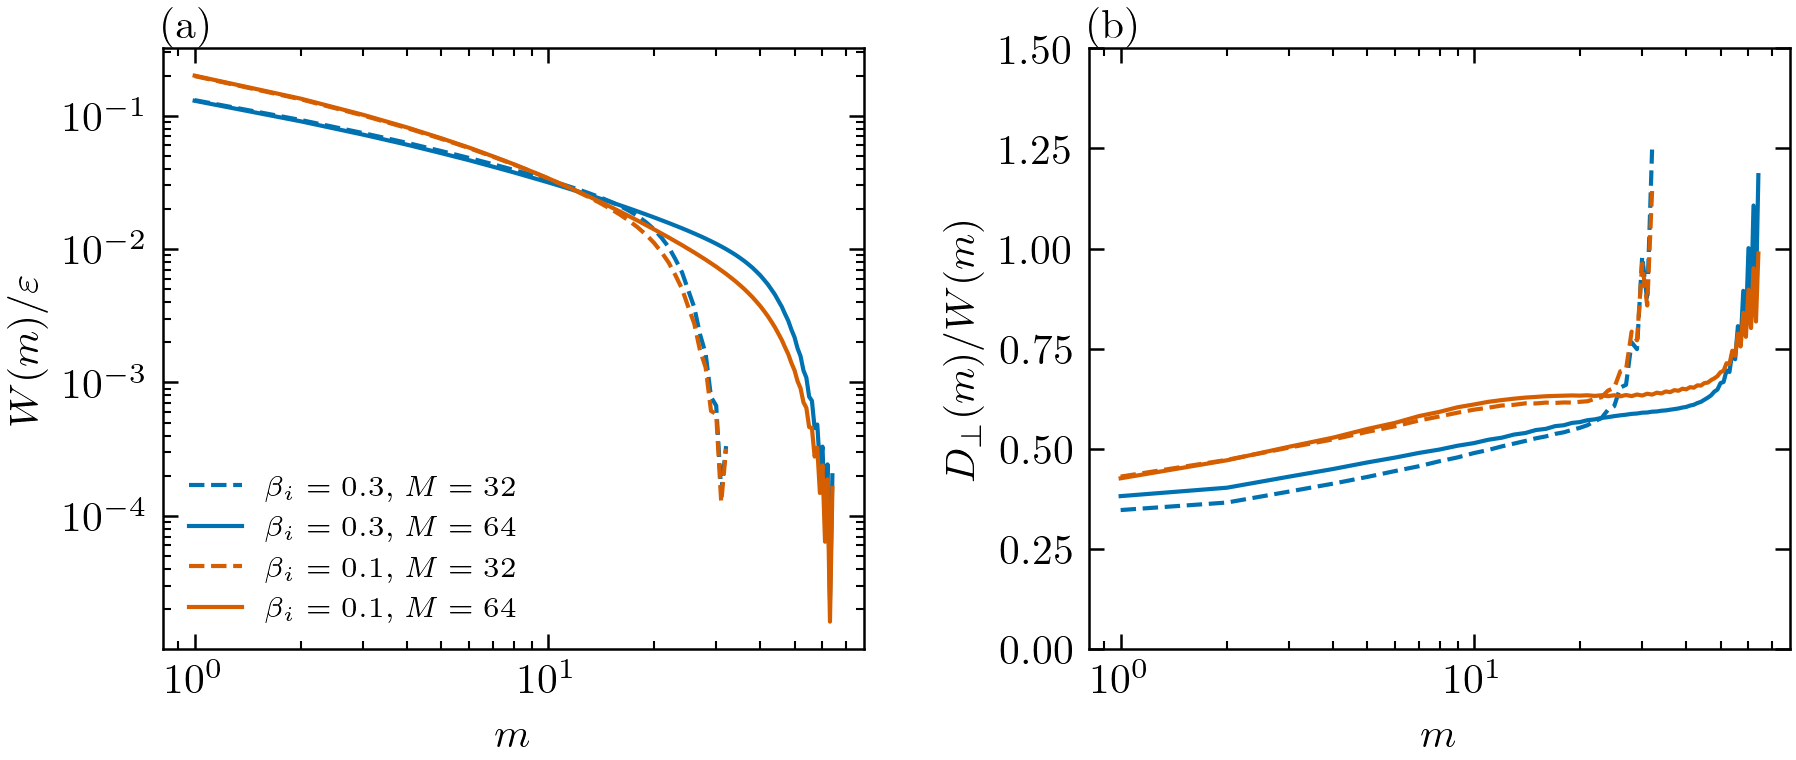
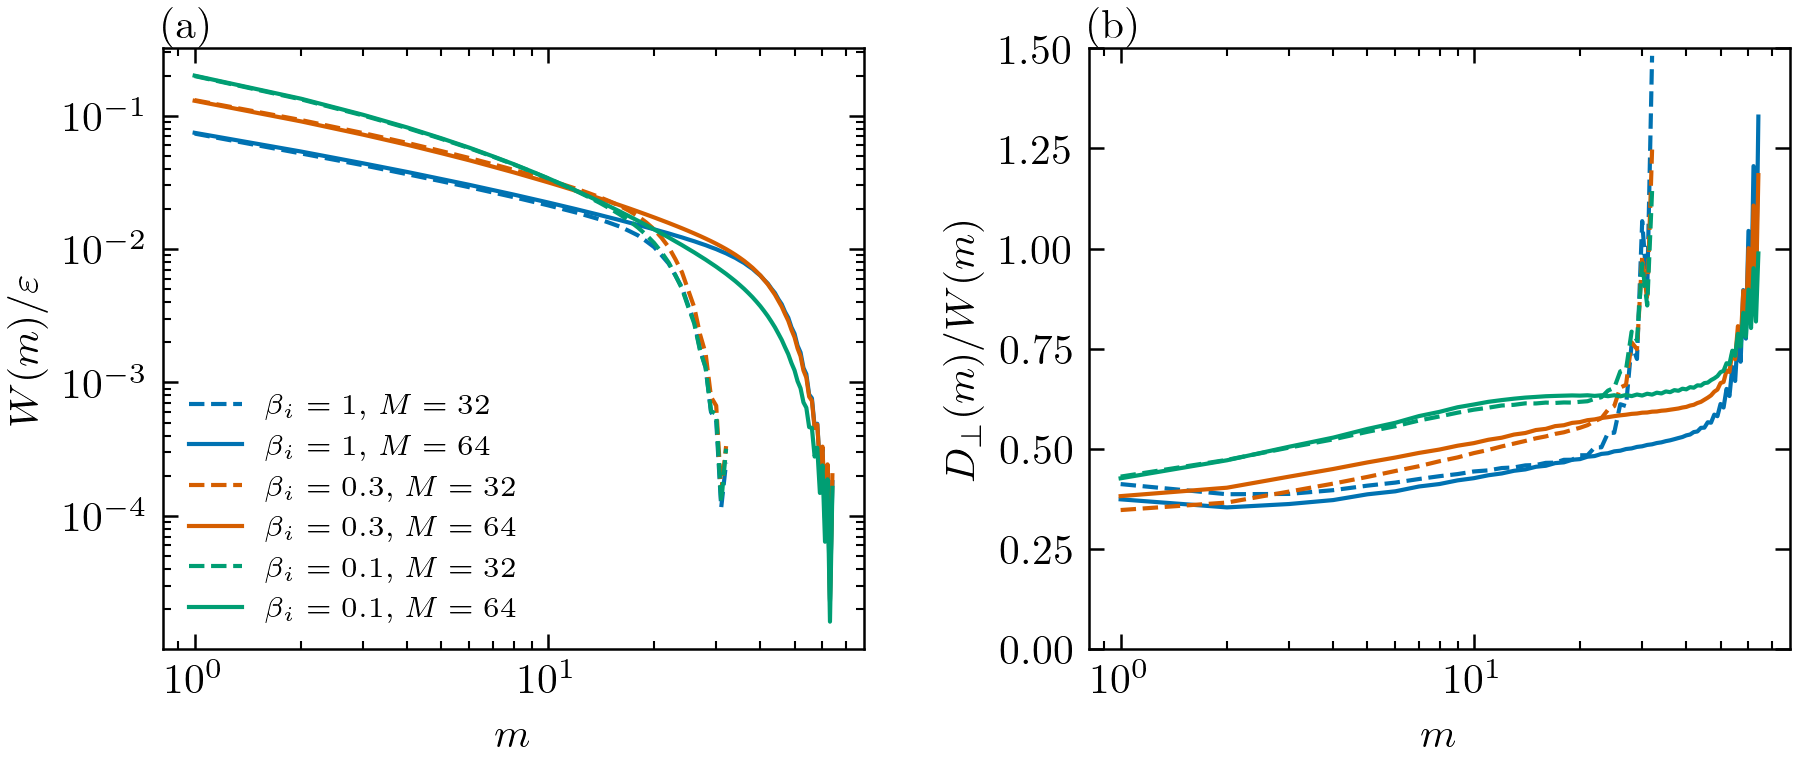
Paper: Hermite-resolution comparison at all three beta_i
At beta_i = 1, W(m) at M = 64 is within 1-5% of M = 32 for m <= 10 and up to
7% higher at m = 12-16, where the M = 32 hypercollisions compete with the
perpendicular sink. Collisional share 59 -> 50% at beta_i = 1 (model 71 -> 63%).

Claude-Session: https://claude.ai/code/session_011UVysGTDctjEhUWxPixPC6

diff --git a/paper/phase-velocity-slices/sections/07-simulations.tex b/paper/phase-velocity-slices/sections/07-simulations.tex
@@ -96,11 +96,14 @@ To bring the break into the hierarchy, we ran the same set-up at $\beta_i=0.3$ a
     1 & 32 & 3--53 & 0.117, 0.141 & 0.155 & 1.1\% & 0.437 & 15.9 \\
     0.3 & 32 & 15.5--53 & 0.076, 0.147 & 0.174 & 1.0\% & 0.478 & 13.5 \\
     0.1 & 32 & 16--66 & 0.120, 0.180 & 0.229 & 0.65\% & 0.590 & 11.2 \\
-    1 & 64 & 16--66 & \placeholder{} & \placeholder{} & \placeholder{} & \placeholder{} & \placeholder{} \\
+    1 & 64 & 16--66 & 0.146, 0.143 & 0.312$^a$ & 1.2\% & 0.421 & \placeholder{} \\
     0.3 & 64 & 16--66 & 0.158, 0.136 & 0.185 & 0.87\% & 0.508 & 13.2 \\
     0.1 & 64 & 16--66 & 0.114, 0.186 & 0.212 & 0.44\% & 0.604 & 11.0 \\
     \bottomrule
   \end{tabular}
+
+  \smallskip
+  {\footnotesize $^a$ $D_\perp(m)$ at $m=0$ and 1 (31\% and 20\%); at most 19\% for every other average and $m$.}
 \end{table}
 
 Table~\ref{tab:runs} lists the runs. All conserve energy to within $2.1\times10^{-3}$ of the injection and balance injection and dissipation to within 2\%. The free energy fluctuates more slowly as $\beta_i$ decreases: its integrated correlation time is about 0.8, 1.4 and $3.6\,\tau_A$ at $\beta_i=1$, 0.3 and 0.1 (at $M=32$), so a window of $50\,\tau_A$ holds fewer independent samples, and at $\beta_i=0.1$ the four block means differ by up to 23\%, about the scatter expected from that correlation time. We quote the block spread as the uncertainty of the averages, about $\pm12\%$ on $W(m)$ at $\beta_i=0.1$. In the run at $\beta_i=0.3$ and $M=32$ the free energy was still settling during the first $12\,\tau_A$ of the nominal window, which we therefore start at $t=15.5$. The spectra show no sign of numerical instability at small scales in any run.
@@ -123,10 +126,10 @@ Table~\ref{tab:runs} lists the runs. All conserve energy to within $2.1\times10^
 \begin{figure}[t]
   \centering
   \includegraphics[width=\textwidth]{h1_resolution_m}
-  \caption{Resolution in Hermite index at $\beta_i=0.3$ (blue) and 0.1 (red): $M=32$ (dashed) and $M=64$ (solid), with the same box, forcing, seeds and hyper-resistivity and the hypercollision coefficient scaled as described in section~\ref{sim:beta}. (a) $W(m)/\eps$. (b) $D_\perp(m)/W(m)$. \placeholder{add $\beta_i=1$}}
+  \caption{Resolution in Hermite index at $\beta_i=1$ (blue), 0.3 (orange) and 0.1 (green): $M=32$ (dashed) and $M=64$ (solid), with the same box, forcing, seeds and hyper-resistivity and the hypercollision coefficient scaled as described in section~\ref{sim:beta}. (a) $W(m)/\eps$. (b) $D_\perp(m)/W(m)$.}
   \label{fig:resolution}
 \end{figure}
 
-Doubling $M$ leaves the spectra in the range both runs resolve unchanged (figure~\ref{fig:resolution}). For $1\le m\le16$, $W(m)$ at $M=64$ is within 0.96--1.01 of its value at $M=32$ at $\beta_i=0.3$ and within 1.00--1.05 at $\beta_i=0.1$, inside the block uncertainty, and $1/T$ changes by 6\% and 2\%. \placeholder{$\beta_i=1$} What changes is the share of the free energy that reaches the hypercollisions: it falls from 43\% to 27\% at $\beta_i=0.3$ and from 20\% to 10\% at $\beta_i=0.1$ when the collisional range moves from $m>16$ to $m>32$. The model predicts this. Free energy injected at $\kappa$ reaches the collisional cutoff $m_c$ with probability $\exp(-\sqrt{2m_c}/(s\kappa T))$, which with $m_c=M/2$, the measured $T$ and $\kappa=\kappa_1$ gives 50\% and 36\% at $\beta_i=0.3$ and 23\% and 12\% at $\beta_i=0.1$. The model reproduces the factor by which the share falls and overestimates its level by 15--30\%, as the age-dependent sink, stronger at the large ages that $m_c$ corresponds to, would make it. The collisional share of the dissipation is therefore not a converged quantity at $M=32$: at fixed $\beta_i$ and $\chi$, free energy that would be dissipated by collisions at a low cutoff is removed at small perpendicular scales when the cutoff is raised.
+Doubling $M$ leaves the spectra in the range both runs resolve nearly unchanged (figure~\ref{fig:resolution}). For $1\le m\le10$, $W(m)$ at $M=64$ is within 1.01--1.05 of its value at $M=32$ at $\beta_i=1$, 0.96--0.99 at $\beta_i=0.3$ and 1.00--1.01 at $\beta_i=0.1$, inside the block uncertainty. Between $m=12$ and 16 the runs at $M=32$ fall below those at $M=64$, by up to 7\% beyond that offset at $\beta_i=1$ and 5\% at $\beta_i=0.3$ and 0.1, because there the hypercollisions of the $M=32$ runs, at the rate $\nu(m/M)^6$, begin to compete with the perpendicular sink; at $m=16$ and $\beta_i=1$ the two rates are equal. The rate $1/T$ changes by $-4$\%, 6\% and 2\% at $\beta_i=1$, 0.3 and 0.1. What changes is the share of the free energy that reaches the hypercollisions: it falls from 59\% to 50\% at $\beta_i=1$, from 43\% to 27\% at $\beta_i=0.3$ and from 20\% to 10\% at $\beta_i=0.1$ when the collisional range moves from $m>16$ to $m>32$. The model predicts this. Free energy injected at $\kappa$ reaches the collisional cutoff $m_c$ with probability $\exp(-\sqrt{2m_c}/(s\kappa T))$, which with $m_c=M/2$, the measured $T$ and $\kappa=\kappa_1$ gives 71\% and 63\% at $\beta_i=1$, 50\% and 36\% at $\beta_i=0.3$, and 23\% and 12\% at $\beta_i=0.1$. The model reproduces the factor by which the share falls and overestimates its level by 15--30\%, as the age-dependent sink, stronger at the large ages that $m_c$ corresponds to, would make it. The collisional share of the dissipation is therefore not a converged quantity at $M=32$: at fixed $\beta_i$ and $\chi$, free energy that would be dissipated by collisions at a low cutoff is removed at small perpendicular scales when the cutoff is raised.
 
 \placeholder{resolution in $k_\perp$: a run at $128^3$ at $\beta_i=0.3$ or 1, to test whether $T$ in units of $\tau_{\rm nl}$ is independent of the hyper-resistivity (prediction iv) and whether $g_0$ keeps the injected field-aligned wavenumber through a longer inertial range}
